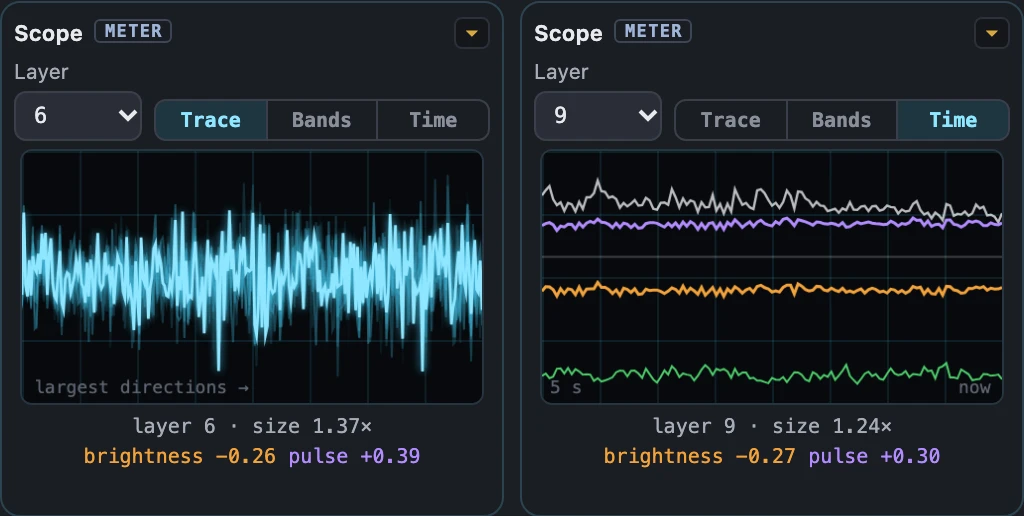
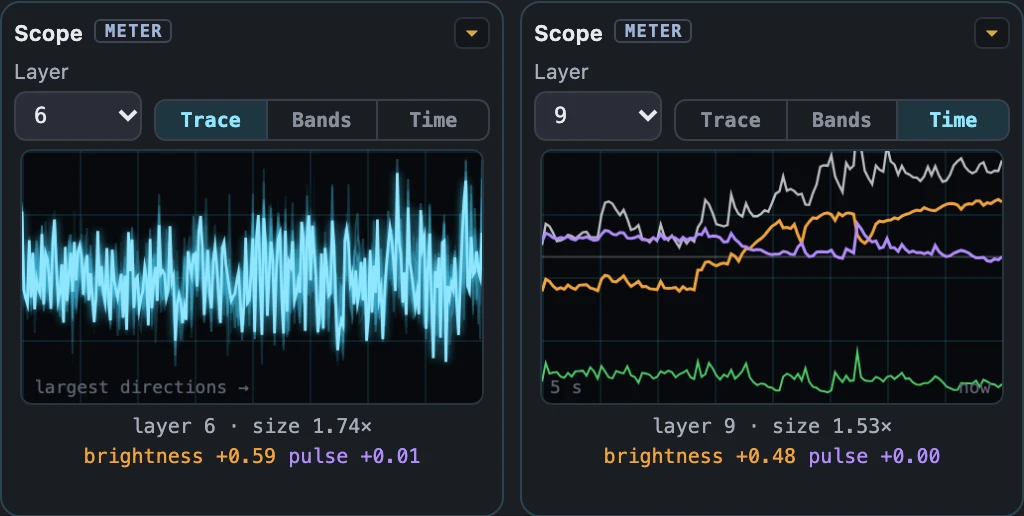
Scopes screenshot re-taken with the Brightness step showing in the Time view

diff --git a/docs/units.html b/docs/units.html
@@ -114,7 +114,7 @@
     <h2>Seeing what a unit does: the scope</h2>
     <p>The scope is a meter that sits on the Model layers row beside the units. It reads the stream at its layer once a frame, after the Steer and the units there, and changes nothing. <b>Trace</b> draws the stream as a waveform along its principal directions (measured over the reference prompts on the unchanged model), the largest first; 0 is the ordinary stream and ±1 a typical swing. <b>Bands</b> shows how far it swings in bands of those directions against the ordinary level. <b>Time</b> scrolls the last five seconds: the stream's size against typical, its reading along each Steer direction on the dose's own scale, and how far it turns from one frame to the next.</p>
     <figure>
-      <a class="shot" href="img/c-scopes.webp" data-cap="Two scopes playing the Warm drone: layer 6 in Trace, layer 9 in Time, each with the stream's size against typical and its readings along Brightness (amber) and Pulse (violet)."><img src="img/c-scopes.webp" width="1024" height="516" loading="lazy" alt="The Model layers row with two Scope cards: on the left, layer 6 in Trace, a cyan waveform; on the right, layer 9 in Time, with white, amber, violet and green traces; readouts under each give the size (1.37× and 1.24×) and the brightness and pulse readings."><span class="zoom">Zoom</span></a>
+      <a class="shot" href="img/c-scopes.webp" data-cap="Two scopes playing the Warm drone: layer 6 in Trace, layer 9 in Time. A Brightness dose of 0.2 was set partway through; in Time the brightness reading (amber) steps up and goes on rising as the model follows it."><img src="img/c-scopes.webp" width="1024" height="516" loading="lazy" alt="The Model layers row with two Scope cards: on the left, layer 6 in Trace, a cyan waveform; on the right, layer 9 in Time, with white, amber, violet and green traces, the amber one stepping up a third of the way along; readouts under each give the size (1.74× and 1.53×) and brightness +0.59 and +0.48."><span class="zoom">Zoom</span></a>
       <figcaption><b>Two scopes.</b> Put one before a unit's layer and one after it to see what the unit does to the stream, then listen to what that does to the sound. Scopes are not saved with sounds.</figcaption>
     </figure>
   </section>

diff --git a/README.md b/README.md
@@ -45,7 +45,7 @@ Abliterator plays a music model on your own machine and changes how it runs whil
 - **Sounds and Session.** **Save last** keeps the last 4 to 60 seconds as heard, with a recipe from which the engine renders it again sample for sample. Session has eight tracks of saved sounds that loop or play once, each a channel strip with pan, mute, solo, effects, and a fader with a ladder of LEDs and Hold reading the track's peak; a limiter on the mix, and exports of a track or the mix.
 - **Two engines.** Magenta RT 2 small (MLX, Apple silicon) is the live engine. MusicGen small (PyTorch) is kept as a second engine with Steer and no model-layer units; it answers in about 285 ms. The model is chosen in Settings (⚙), Model, which the model's name in the Engine panel's header also opens.
 
-<p align="center"><img src="docs/img/c-scopes.webp" alt="Two scopes on the Model layers row: layer 6 in Trace, a cyan waveform of the stream; layer 9 in Time, with the stream's size and its readings along Brightness and Pulse" width="80%"></p>
+<p align="center"><img src="docs/img/c-scopes.webp" alt="Two scopes on the Model layers row: layer 6 in Trace, a cyan waveform of the stream; layer 9 in Time, with the brightness reading stepping up when a Brightness dose of 0.2 was set" width="80%"></p>
 
 The [Model layers page](https://vector-lab-tools.github.io/abliterator/units.html) shows where the units' code lives (the PyTorch units in the VAU package; the host and MLX versions of three units in this repository), where each acts inside the model, and for each unit a drawing of what it does and its whole measured sweep to listen to.
 
